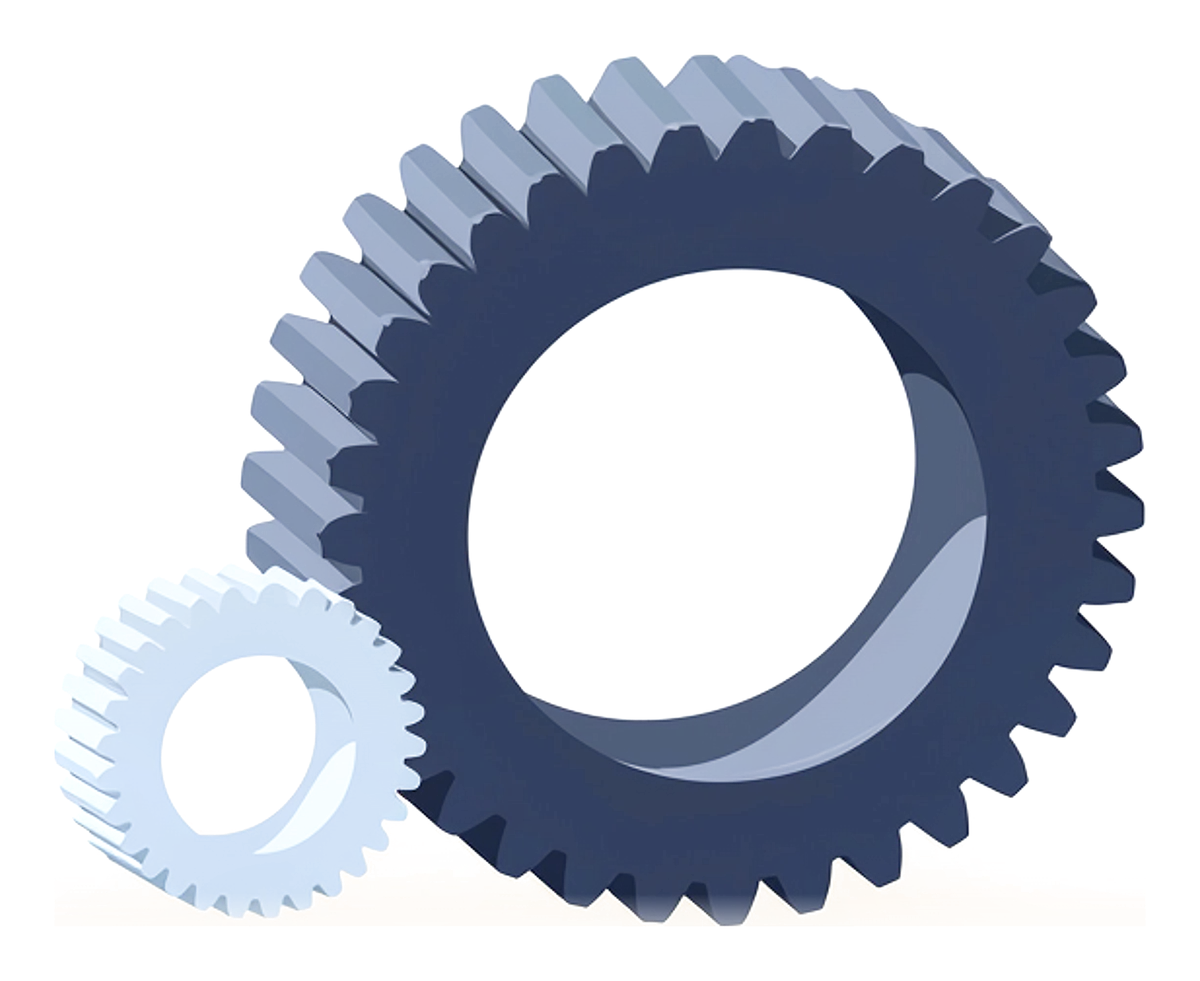
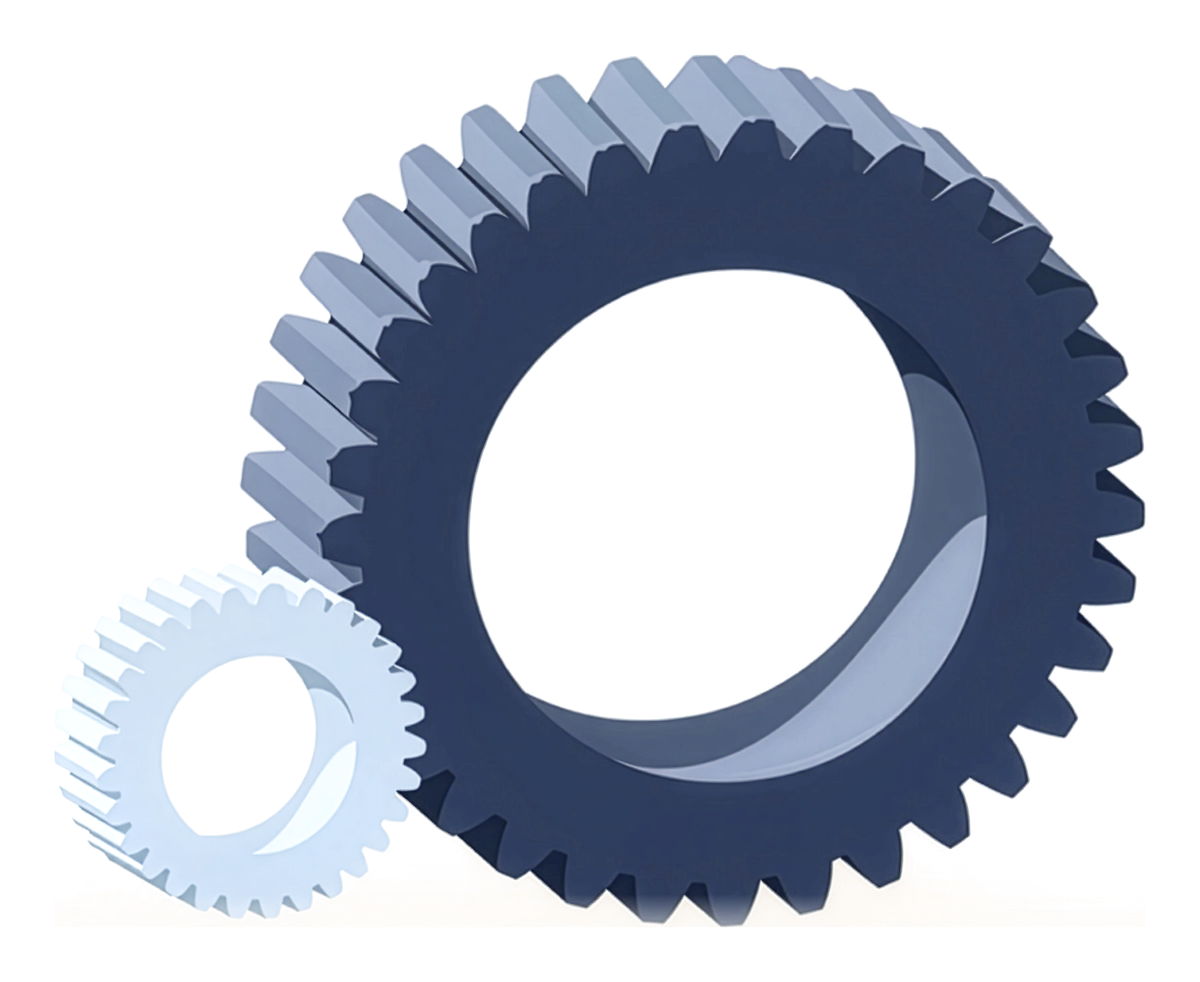
Two more case-study heroes from Firefly Upscaler 4x (27 of 63)

Changed region(s): [[0.8942, 0.6116, 0.925, 0.6422], [0.5242, 0.7645, 0.555, 0.7951]]

diff --git a/web/content/image-licences.ts b/web/content/image-licences.ts
@@ -355,7 +355,7 @@ export const imageLicences: ImageLicence[] = [
     file: "public/hero/case-study-global-it-services-provider.webp",
     source: "licensed-generative",
     provider: "Adobe Firefly",
-    reference: "firefly-image5-2026-11-26-spec63-46 (local 4x enlargement; Firefly Upscaler pending)",
+    reference: "firefly-image5-2026-11-26-spec63-46 (Firefly Upscaler 4x)",
     acquired: "2026-11-26",
     depicts: "A ring of evenly spaced blue nodes all connected back to one central navy hub",
     aiGenerated: true,
@@ -365,7 +365,7 @@ export const imageLicences: ImageLicence[] = [
     file: "public/hero/case-study-industrial-engineering-manufacturer-india.webp",
     source: "licensed-generative",
     provider: "Adobe Firefly",
-    reference: "firefly-image5-2026-11-26-spec63-49 (local 4x enlargement; Firefly Upscaler pending)",
+    reference: "firefly-image5-2026-11-26-spec63-49 (Firefly Upscaler 4x)",
     acquired: "2026-11-26",
     depicts: "Two interlocking toothed discs in navy and pale blue, of different diameter, meshed at one point",
     aiGenerated: true,
